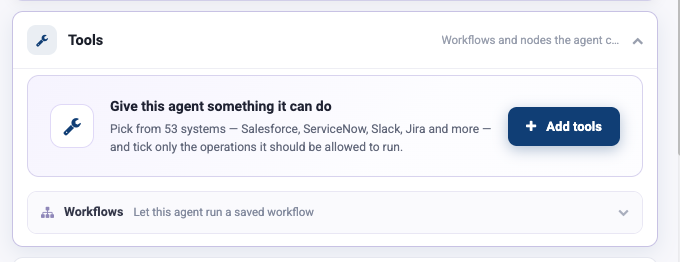
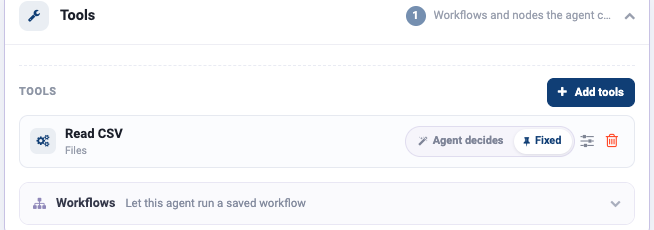
docs: a screenshot for every Agent Studio configuration group
The Agent Studio reference described all nine groups but only showed four. Every
group now has its own screenshot, all captured from the same agent at a uniform
width so the page reads as one system:

- Knowledge (RAG on, showing the vector-database and source options)
- Skills (Upload / Fetch and the empty state)
- MCP Servers (Add MCP Server)
- Context (AGENTS.md Source with the file chooser)
- Guardrails (the Add guardrails entry)

Input, Output Format and Tools were recaptured from the same agent so their
width and styling match, and each group's prose gained a line on what its
controls do.

diff --git a/docs/agentic-ai-guide/agent-studio.rst b/docs/agentic-ai-guide/agent-studio.rst
@@ -143,8 +143,8 @@ value is the stand-in you tested with. Keep a realistic example here; it is the
 fastest regression test you have.
 
 .. figure:: ../_assets/agentic-ai-guide/agent-studio/input.png
-   :alt: Input group expanded
-   :width: 680px
+   :alt: The Input group with the test query filled in
+   :width: 654px
 
 Output Format
 ~~~~~~~~~~~~~
@@ -171,8 +171,8 @@ Controls the shape of the answer.
    Parsing prose is where agent pipelines break.
 
 .. figure:: ../_assets/agentic-ai-guide/agent-studio/output-format.png
-   :alt: Output Format group expanded
-   :width: 680px
+   :alt: The Output Format group with Text selected and a Save Path field
+   :width: 654px
 
 Knowledge
 ~~~~~~~~~
@@ -180,6 +180,14 @@ Knowledge
 Grounds the agent in your documents instead of the model's memory. Point it at a
 document source or a vector index, and retrieved passages are placed in front of
 the model before it answers.
+
+Set **Knowledge Base (RAG)** to ``true`` and the retrieval fields appear -
+the vector database, whether to search an existing index or point at documents,
+the namespace and how many passages to pull back.
+
+.. figure:: ../_assets/agentic-ai-guide/agent-studio/knowledge.png
+   :alt: The Knowledge group with RAG turned on, showing the vector database and source options
+   :width: 654px
 
 Full configuration - sources, embedding model, chunk size, top-K and reranking -
 is on :doc:`/agentic-ai-guide/rag-knowledge`.
@@ -200,8 +208,8 @@ Both are covered on :doc:`/agentic-ai-guide/tools-actions` and
 :doc:`/agentic-ai-guide/workflows-as-tools`.
 
 .. figure:: ../_assets/agentic-ai-guide/agent-studio/tools.png
-   :alt: Tools group expanded showing Add tools and Workflows
-   :width: 680px
+   :alt: The Tools group with a Read CSV tool attached and the Workflows row below it
+   :width: 654px
 
 Skills
 ~~~~~~
@@ -214,13 +222,26 @@ Use skills for rules that several agents share - a house style, a calculation
 convention, a document-reading procedure.
 
 The registry is **scoped to the project**: you see the skills uploaded here,
-and no others. See :doc:`/agentic-ai-guide/skills`.
+and no others.
+
+.. figure:: ../_assets/agentic-ai-guide/agent-studio/skills.png
+   :alt: The Skills group with Upload Skills and Fetch Skills buttons and an empty state
+   :width: 654px
+
+See :doc:`/agentic-ai-guide/skills`.
 
 MCP Servers
 ~~~~~~~~~~~
 
 Connect a Model Context Protocol server and choose which of its tools become this
-agent's actions. See :doc:`/agentic-ai-guide/mcp-servers`.
+agent's actions. **Add MCP Server** opens the picker; the tools you tick become
+this agent's actions.
+
+.. figure:: ../_assets/agentic-ai-guide/agent-studio/mcp-servers.png
+   :alt: The MCP Servers group with its empty state and an Add MCP Server button
+   :width: 654px
+
+See :doc:`/agentic-ai-guide/mcp-servers`.
 
 Context
 ~~~~~~~
@@ -240,6 +261,13 @@ Context
    * - ``inline``
      - Paste the content directly onto this agent.
 
+With **path** or **inline**, the file's content loads into the panel so you can
+see exactly what the agent will read.
+
+.. figure:: ../_assets/agentic-ai-guide/agent-studio/context.png
+   :alt: The Context group with AGENTS.md Source set to path and a Choose .md File button
+   :width: 654px
+
 See :doc:`/agentic-ai-guide/context-agents-md` for what belongs in the file.
 
 Guardrails
@@ -248,8 +276,14 @@ Guardrails
 Checks the query **before the agent sees it**. A blocked request never reaches
 the model - the refusal goes back instead.
 
-Click **Add guardrails** to configure them. See
-:doc:`/agentic-ai-guide/security-guardrails`.
+Click **Add guardrails** to configure the checks - PII, prompt injection,
+banned words and length.
+
+.. figure:: ../_assets/agentic-ai-guide/agent-studio/guardrails.png
+   :alt: The Guardrails group with its description and an Add guardrails button
+   :width: 654px
+
+See :doc:`/agentic-ai-guide/security-guardrails`.
 
 Model
 ~~~~~
